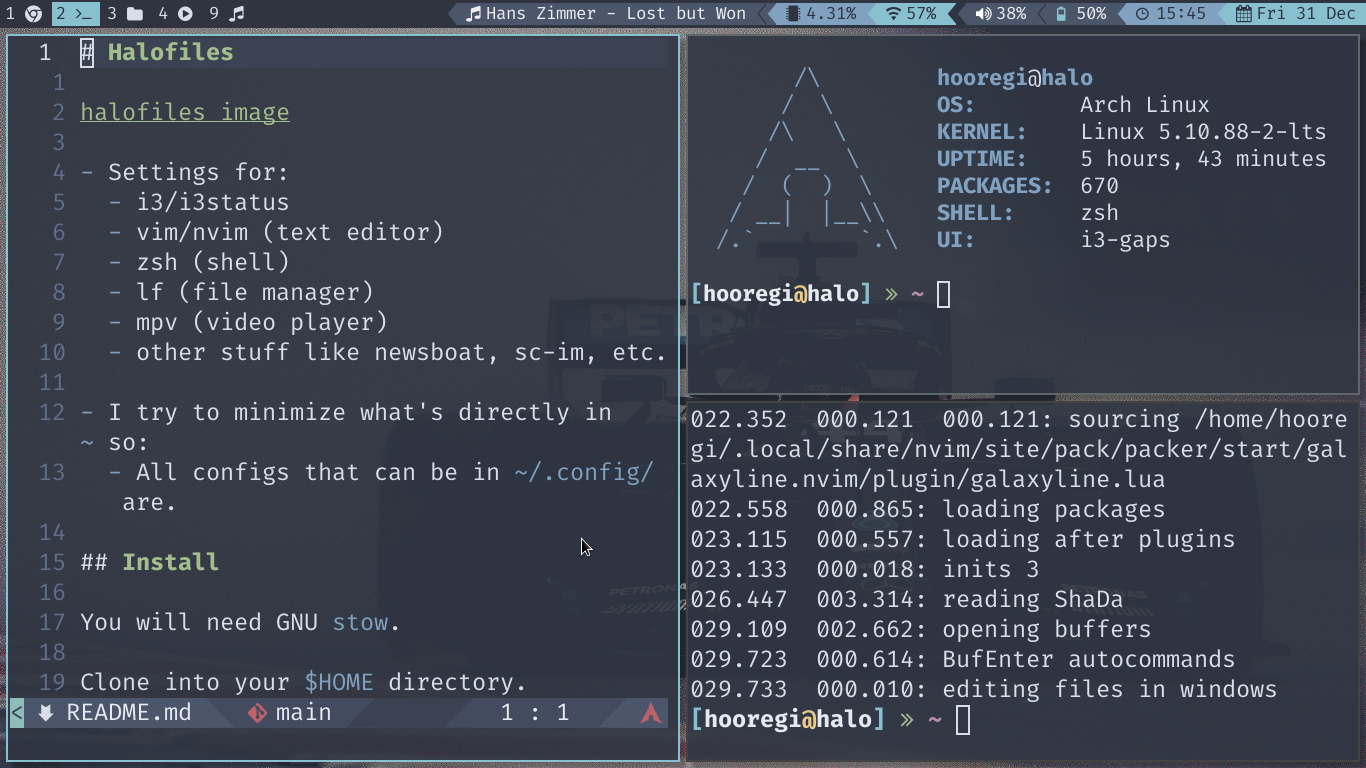
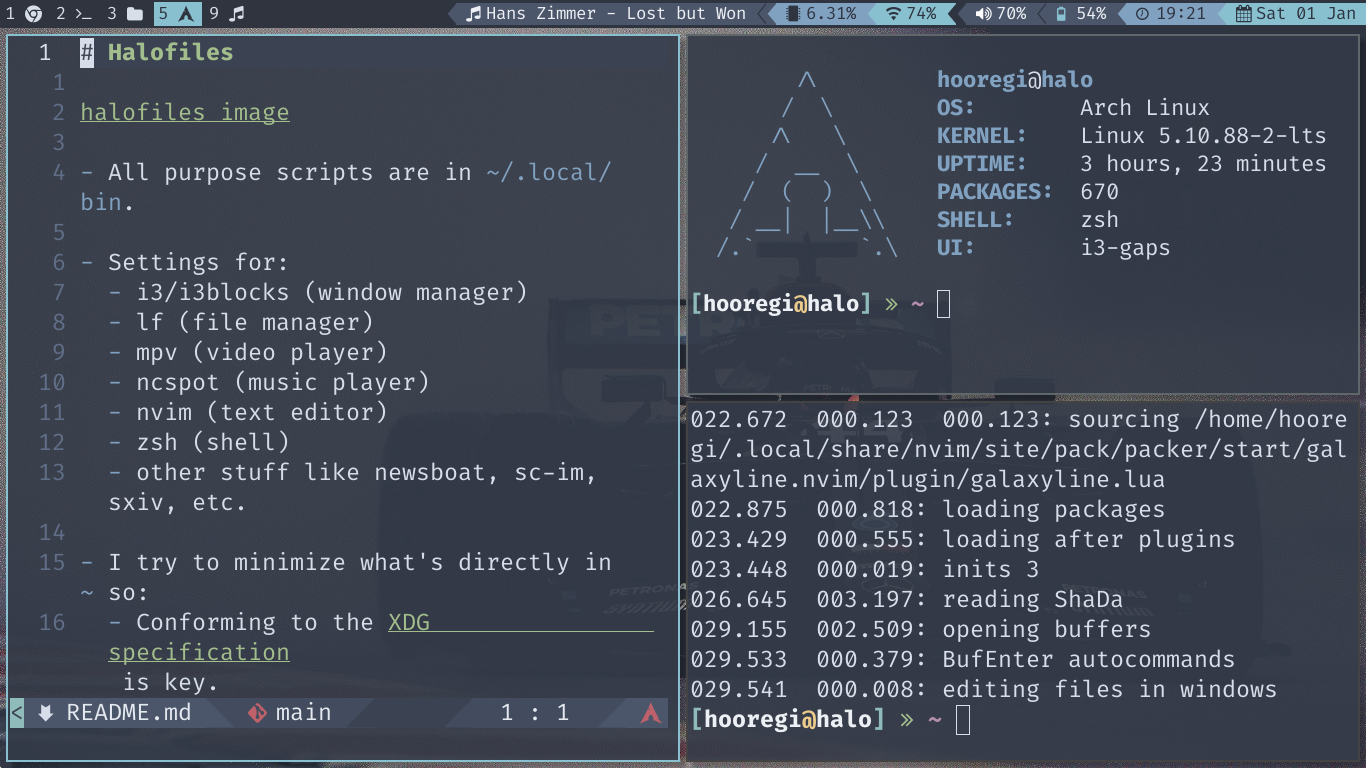
(general) updated README and image

diff --git a/README.md b/README.md
@@ -2,16 +2,21 @@
 
 ![halofiles image](./halopicture.png)
 
+- All purpose scripts are in `~/.local/bin`.
+
 - Settings for:
-  - i3/i3status
-  - vim/nvim (text editor)
-  - zsh (shell)
+  - i3/i3blocks (window manager)
   - lf (file manager)
   - mpv (video player)
-  - other stuff like newsboat, sc-im, etc.
+  - ncspot (music player)
+  - nvim (text editor)
+  - zsh (shell)
+  - other stuff like newsboat, sc-im, sxiv, etc.
 
 - I try to minimize what's directly in `~` so:
+  - Conforming to the [XDG specification](https://wiki.archlinux.org/title/XDG_Base_Directory) is key.
   - All configs that can be in `~/.config/` are.
+  - Environmental variables are set in `~/.zprofile` so programs conform to the XDG specification.
 
 ## Install
 
